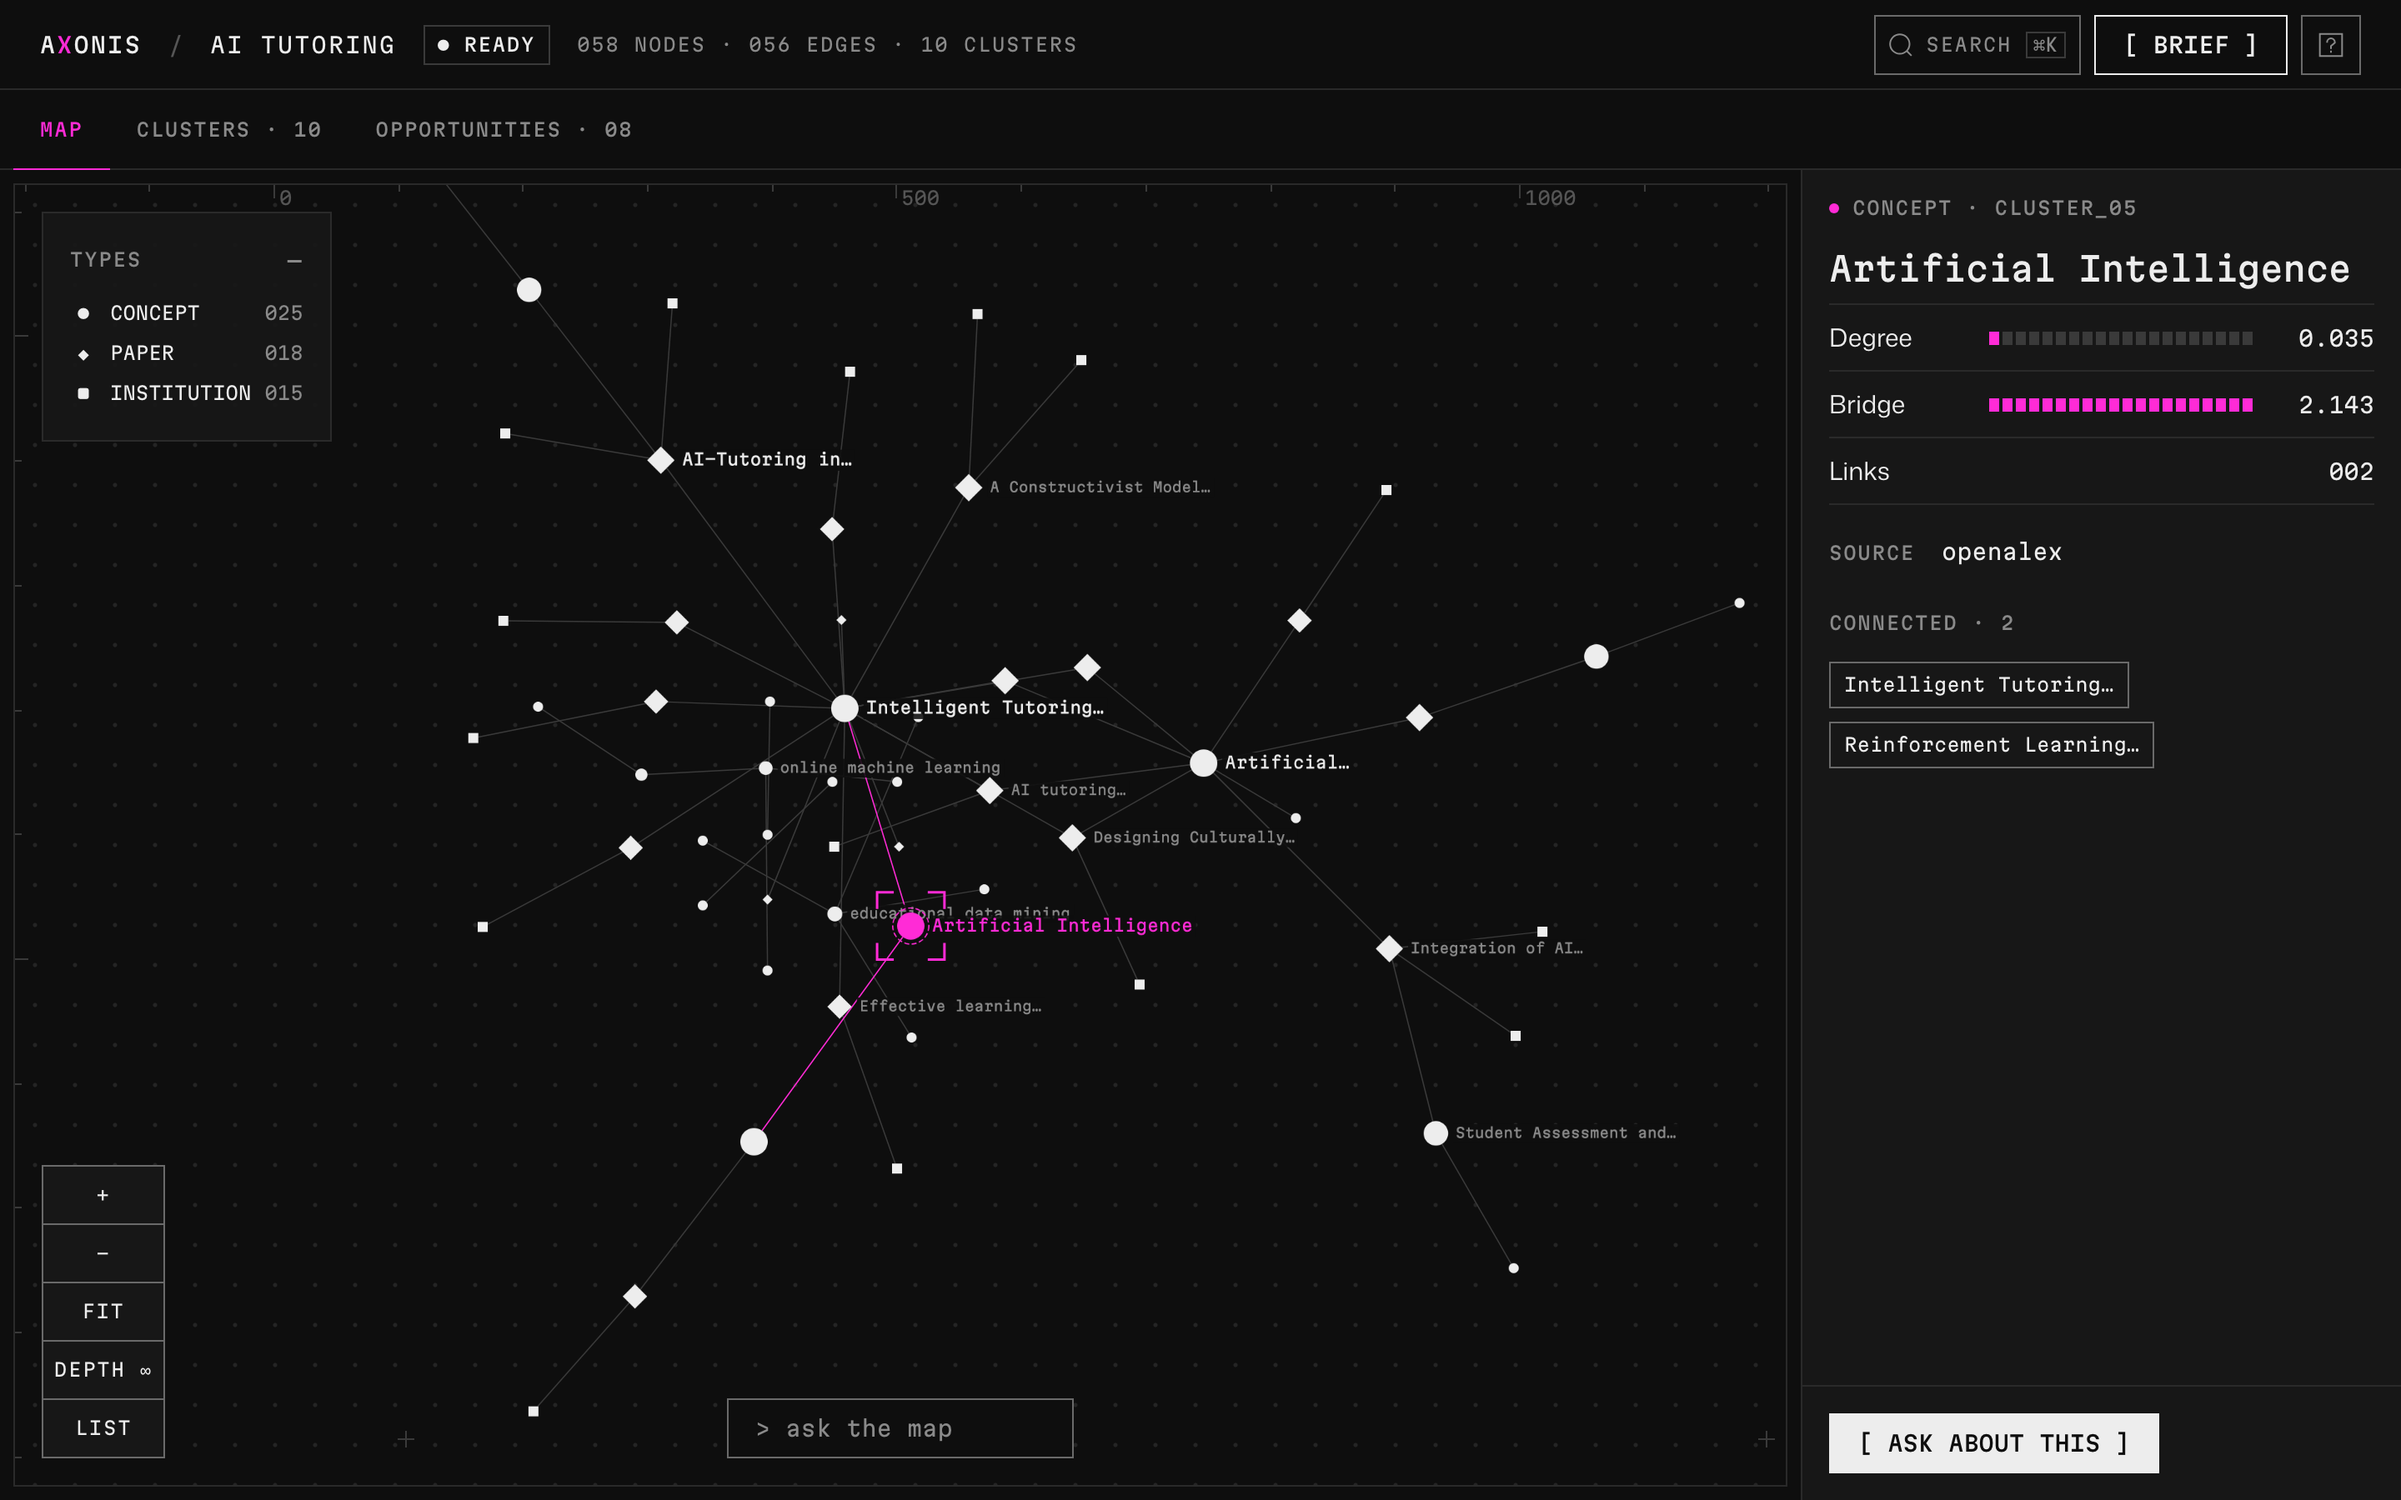
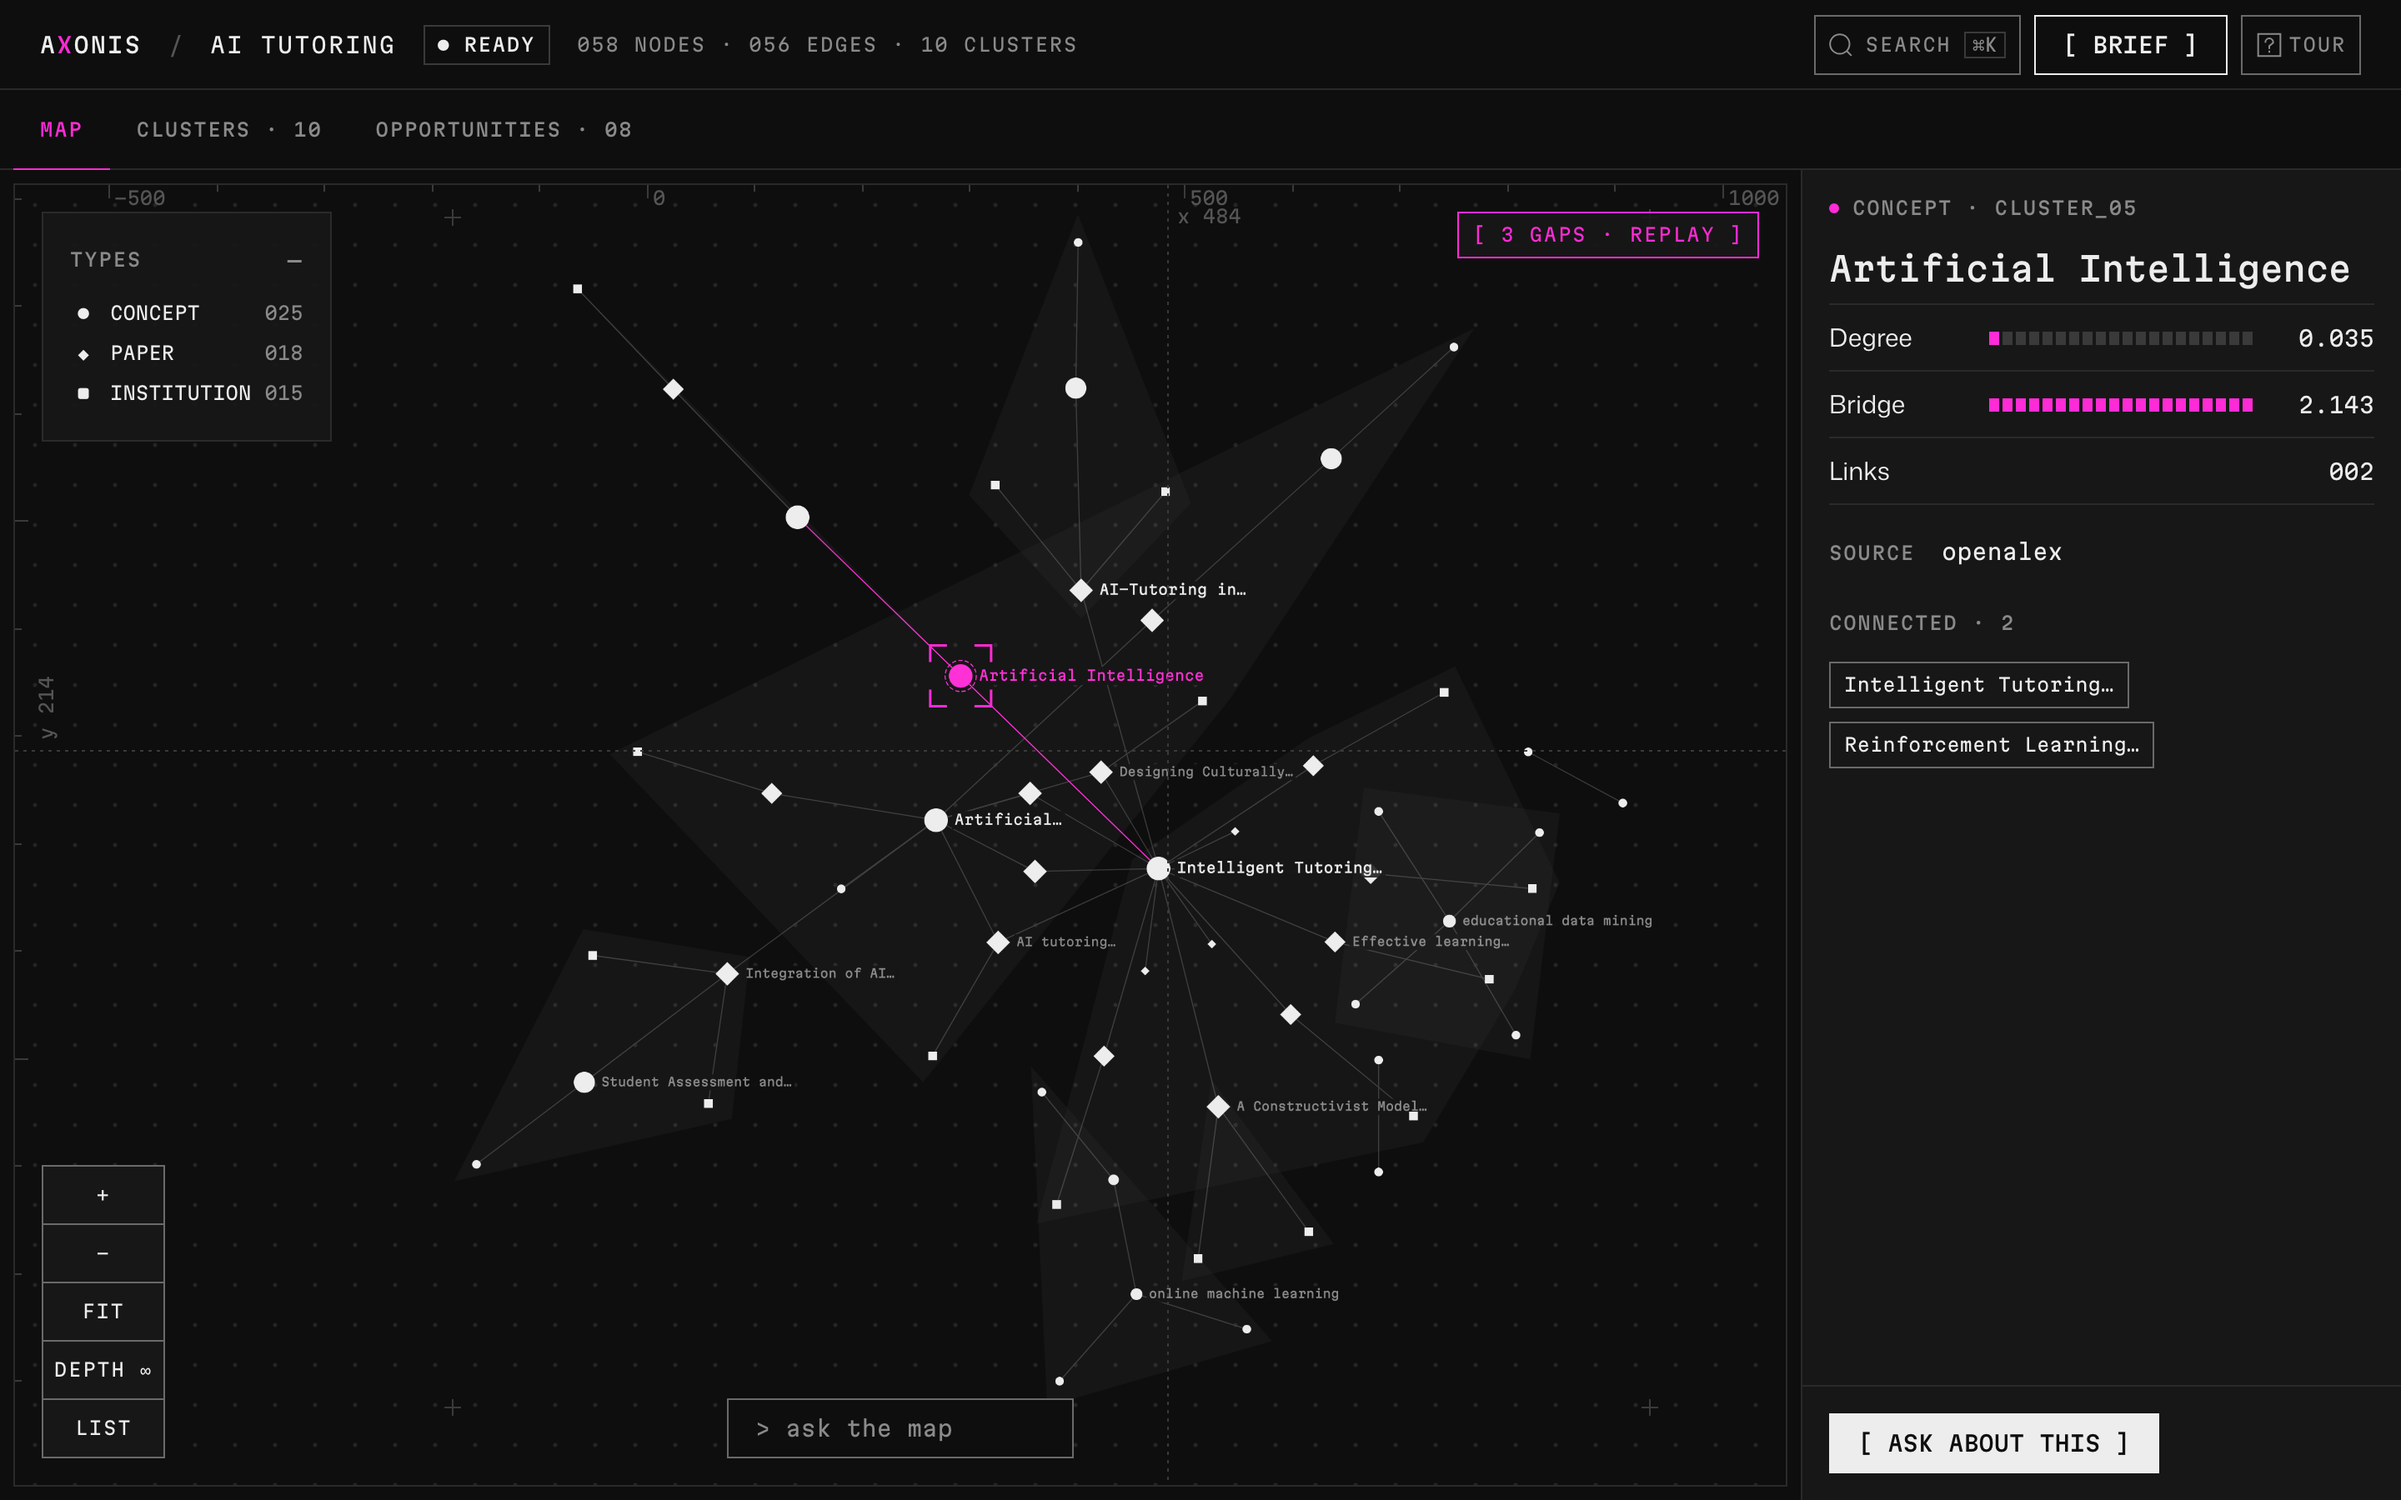
Docs: screenshots of the current app (gap reveal, cluster names, phone rail)

diff --git a/README.md b/README.md
@@ -19,7 +19,9 @@ Live at **[axonis.app](https://axonis.app)**.
 - **Ask the map.** Ask a question and get a short answer grounded in the graph. Inline `[n]` citations link to nodes: hover one to light the node, click it to centre the graph.
 - **Research brief.** Export the map as a written brief (Markdown or print).
 
+![First look at a map: the top gaps light up with callouts](docs/screenshots/axonis-gaps.png)
 ![Map with a selected node](docs/screenshots/axonis-map.png)
+![Clusters with short names; the selected one outlined on the map](docs/screenshots/axonis-clusters.png)
 ![Opportunities with score breakdown](docs/screenshots/axonis-opportunities.png)
 
 <img src="docs/screenshots/axonis-mobile.png" alt="Phone: the map with a selected node above the inspector sheet" width="320">
